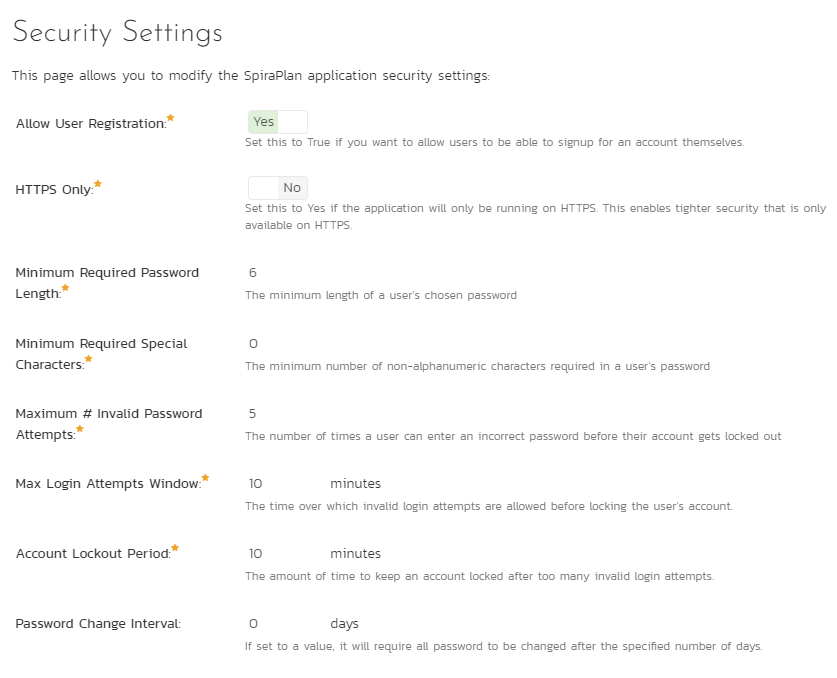
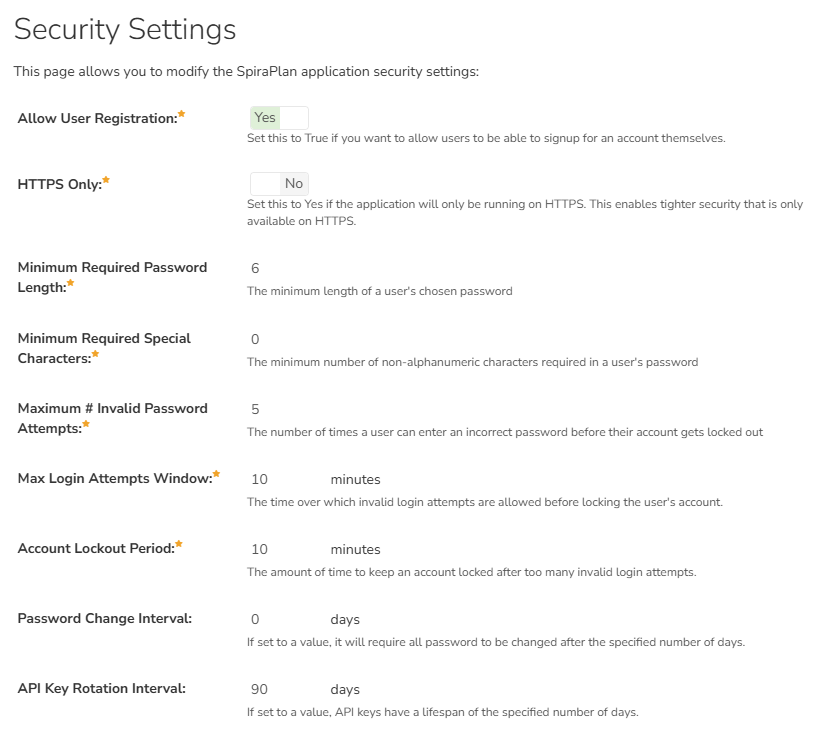
API Key Rotation documentation updates

diff --git a/docs/HowTo-Guides/Security.md b/docs/HowTo-Guides/Security.md
@@ -12,6 +12,7 @@ Go to the System Admin > [Security Settings](../Spira-Administration-Guide/Syste
 | Max Login Attempts Window              | 10                | 10 minutes is recommended to apply to the previous standard of 5 password attempts.                                                                                                                                                                                                                                                                                                                                                                                                                                                                                                                                                 |
 | Account Lockout Period                 | 10-15             | Best practice recommends that an account lockout period is typically between 10 and 15 minutes. This timeframe balances security against user inconvenience, allowing enough time to prevent brute-force attacks while not locking users out for excessively long periods. More sensitive environments may require longer periods.                                                                                                                                                                                                                                                                                                  |
 | Password Change Interval               | 90 or 365         | Best practice NIST standards recommend a required password change at least once a year when combined with higher credential complexity standards and manual user input. Intervals that are too short are more cumbersome and harder to remember for the end user, resulting in more repetition and predictable patterns in credential formation. If your organization uses a password manager, it is more appropriate to use 90 days as credentials can be randomized and are not subject to manual complexity decreases. Note that this setting does not apply to organizations that utilize an identity provider or SSO solution. |
+| API Key Rotation Interval              | 90                | Best practice recommends that long-lived credentials such as API Keys are rotated on a regular schedule to limit the window of exposure if a key is ever leaked. The default of 90 days is a reasonable balance for most organizations; more sensitive environments may use a shorter interval. Setting this to 0 (or leaving it blank) disables the policy so API Keys never expire, which is not recommended. Users are warned on their profile and at login during the final 7 days before a key expires, and expired keys are rejected by both the REST and SOAP APIs. |
 | Require Password Change on First Login | Yes               | Best practice recommends that new credentials following appropriate complexity standards should be created upon first login.                                                                                                                                                                                                                                                                                                                                                                                                                                                                                                        |
 | Disallow Names in Passwords            | Yes               | Best practice recommends that passwords should never have easily guessable strings within the input value. Names are the easiest value to obtain via reconnaissance and therefore should never be allowed in a user’s credentials.                                                                                                                                                                                                                                                                                                                                                                                                  |
 | Enable 2-Step Authentication           | Yes               | It is strongly recommended that all accounts use some form of [multi-factor authentication](../Spira-Administration-Guide/System.md/#enable-2-step-authentication) when possible. This functionality uses a one-time password (OTP) medium as an additional security check.                                                                                                                                                                                                                                                                                                                                                                                                   |

diff --git a/docs/Developers/API-Overview.md b/docs/Developers/API-Overview.md
@@ -26,6 +26,9 @@ For every request made to the Spira API, you must provide a valid username and A
 | Accept       | This defines what format the response from the server should have. JSON format is supported so use `Accept: application/json`         |
 | Content-Type | This defines the format of the request payload data sent to the server. For POST and PUT methods use `Content-Type: application/json` |
 
+!!! warning "API Keys can expire"
+    Your system administrator can enable an **API Key Rotation Interval** security policy that makes API Keys expire after a set number of days (the default is 90 days). This applies to the API Key used for both the REST and SOAP APIs. Once a key expires, requests that use it are rejected with an "Access Denied" error until a new key is generated. See the [API Key Rotation Interval](../Spira-Administration-Guide/System.md/#api-key-rotation-interval) setting for more details.
+    
 ## Available Methods
 === "GET"
 
@@ -318,6 +321,7 @@ If something goes wrong with your request, the system will return the error code
     - Verify the provided username and API Key
     - Verify the Provided URL is correct (should be similar to https://companyname.spiraservice.net/services/v7_0/RestService.svc/YOUR_API_ENDPOINT)
     - Generate a new API Key ([here's how](http://spiradoc.inflectra.com/HowTo-Guides/Users-profile-management/#how-to-get-or-make-your-rss-token-or-api-key)) and try again
+    - Check if the API Key has expired. If your administrator has enabled the [API Key Rotation Interval](../Spira-Administration-Guide/System.md/#api-key-rotation-interval) policy, an expired key is rejected by both the REST and SOAP APIs until a new key is generated and your integration is reconfigured with it
     - Check if the user is not locked out
     - Check if the user is part of the workspace (product, program, etc.)
     - Check the syntax: make sure to only use the "?" once in the URL

diff --git a/docs/Spira-Administration-Guide/System.md b/docs/Spira-Administration-Guide/System.md
@@ -142,6 +142,7 @@ The following settings can be changed within the system, once you are satisfied,
 - **Max Login Attempts Window**: Set this to the number of minutes over which invalid login attempts are evaluated before locking the user's account.
 - **Account Lockout Period**: Set this to the duration (in minutes) to keep an account locked after too many invalid login attempts.
 - **Password Change Interval**: If set to a value, it will require all password to be changed after the specified number of days.
+- **API Key Rotation Interval**: Set this to the number of days that a user's API Key stays valid before it must be regenerated, with a default value of 90 days. Leaving the field blank or setting it to 0 disables the policy, meaning that API Keys never expire.
 - **Require Password Change on First Login**: Enabling this requires all new users to change their password on first login.
 - **Disallow Names in Passwords**: If enabled, passwords cannot contain the user's real name and/or username.
 - **Enable [2-Step](#enable-2-step-authentication) Authentication**: If enabled (the default), users can add a one-time password to their profile in addition to their primary password for added security. This feature is available to users who authenticate using the application's username and password system, or with LDAP. Users who authenticate with an external provider can not use Spira's 2-step authentication. Users can manage their one-time passwords on their [User Profile](../Spira-User-Manual/User-Product-Management.md/#2-step-authentication). Administrators can remove a one-time password for a user from [Edit User](System-Users.md/#edit-an-existing-user) page. 

diff --git a/docs/About/release-notes-v9.md b/docs/About/release-notes-v9.md
@@ -2,6 +2,9 @@
 
 ## Version 9.6 (October 2026)
 
+??? success "New Features"
+    - Adds a new [API Key Rotation Interval](../Spira-Administration-Guide/System.md/#api-key-rotation-interval) security setting that lets administrators set an expiry lifespan on user API Keys [IN:13416]
+
 ??? bug "Bug fixes and enhancements"
     - Addressed a problem where releases with very early start or end dates could cause errors elsewhere in the product [IN:13224]
     - Corrected an issue where progress and linked artifact counts stayed at zero for portfolio and program artifacts after sample data was activated [IN:13343]

diff --git a/docs/HowTo-Guides/Users-profile-management.md b/docs/HowTo-Guides/Users-profile-management.md
@@ -64,3 +64,5 @@ There are online resources to help you create an avatar in the right way, such a
 5. Make sure "Enable API Key" is set to "Yes"
 6. Look at the "API Key": if this is blank, click "Generate New"
 7. You can now click on the API key to copy it automatically to your clipboard
+
+Your administrator may turn on a policy that makes API Keys expire after a set number of days. If so, your profile shows how long your key has left and warns you before it expires - just click "Generate New" to get a fresh one, then update any integration that uses the key.
